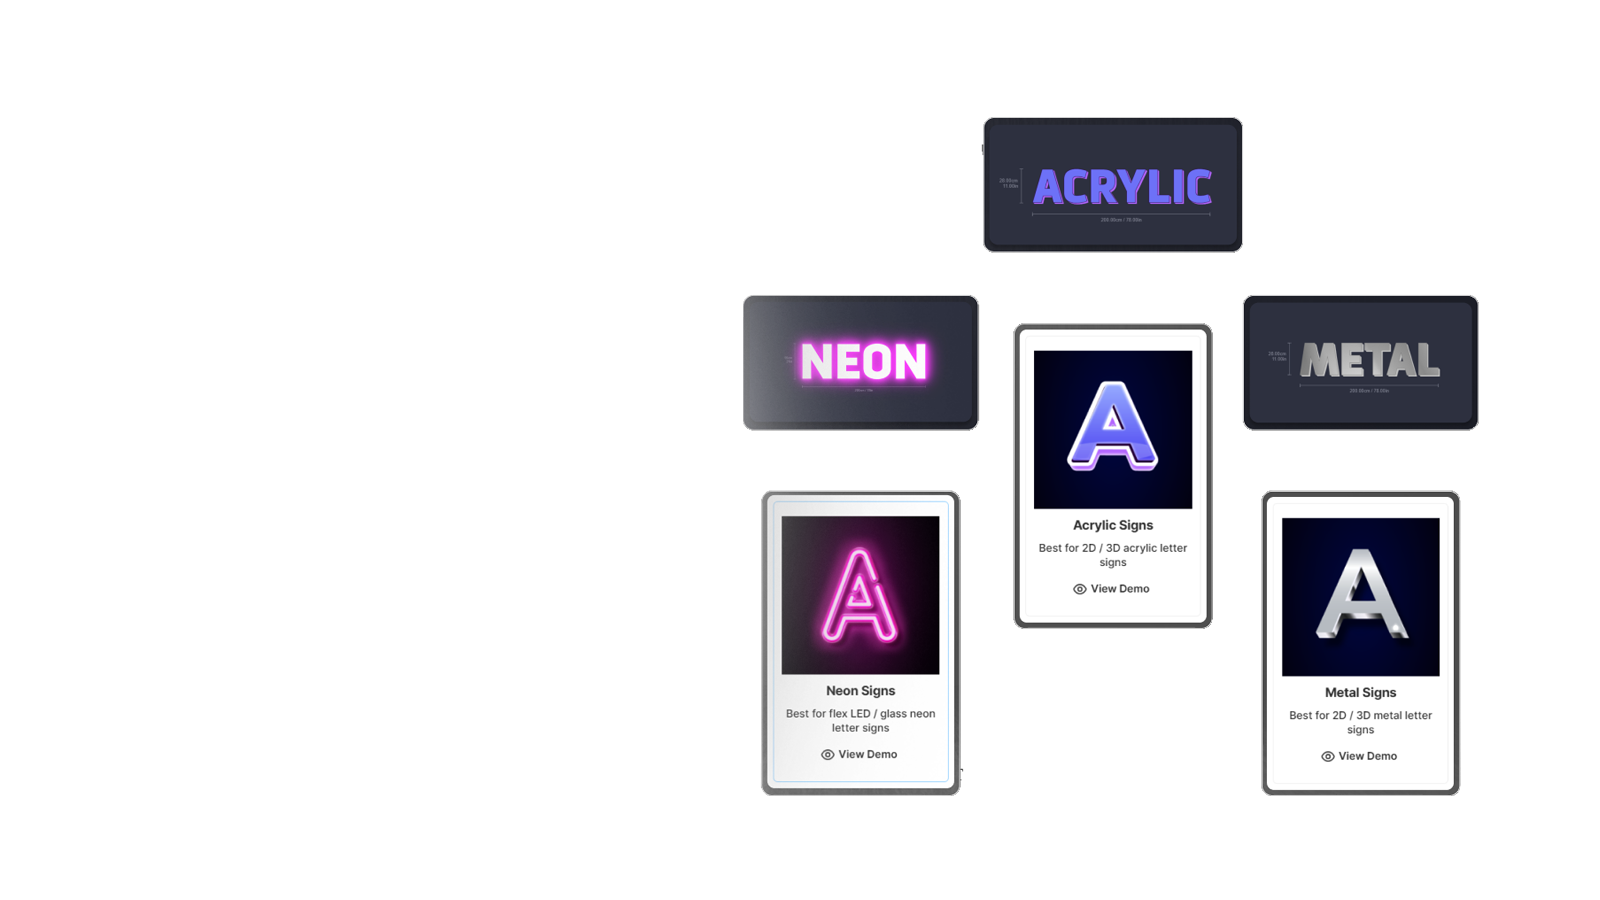
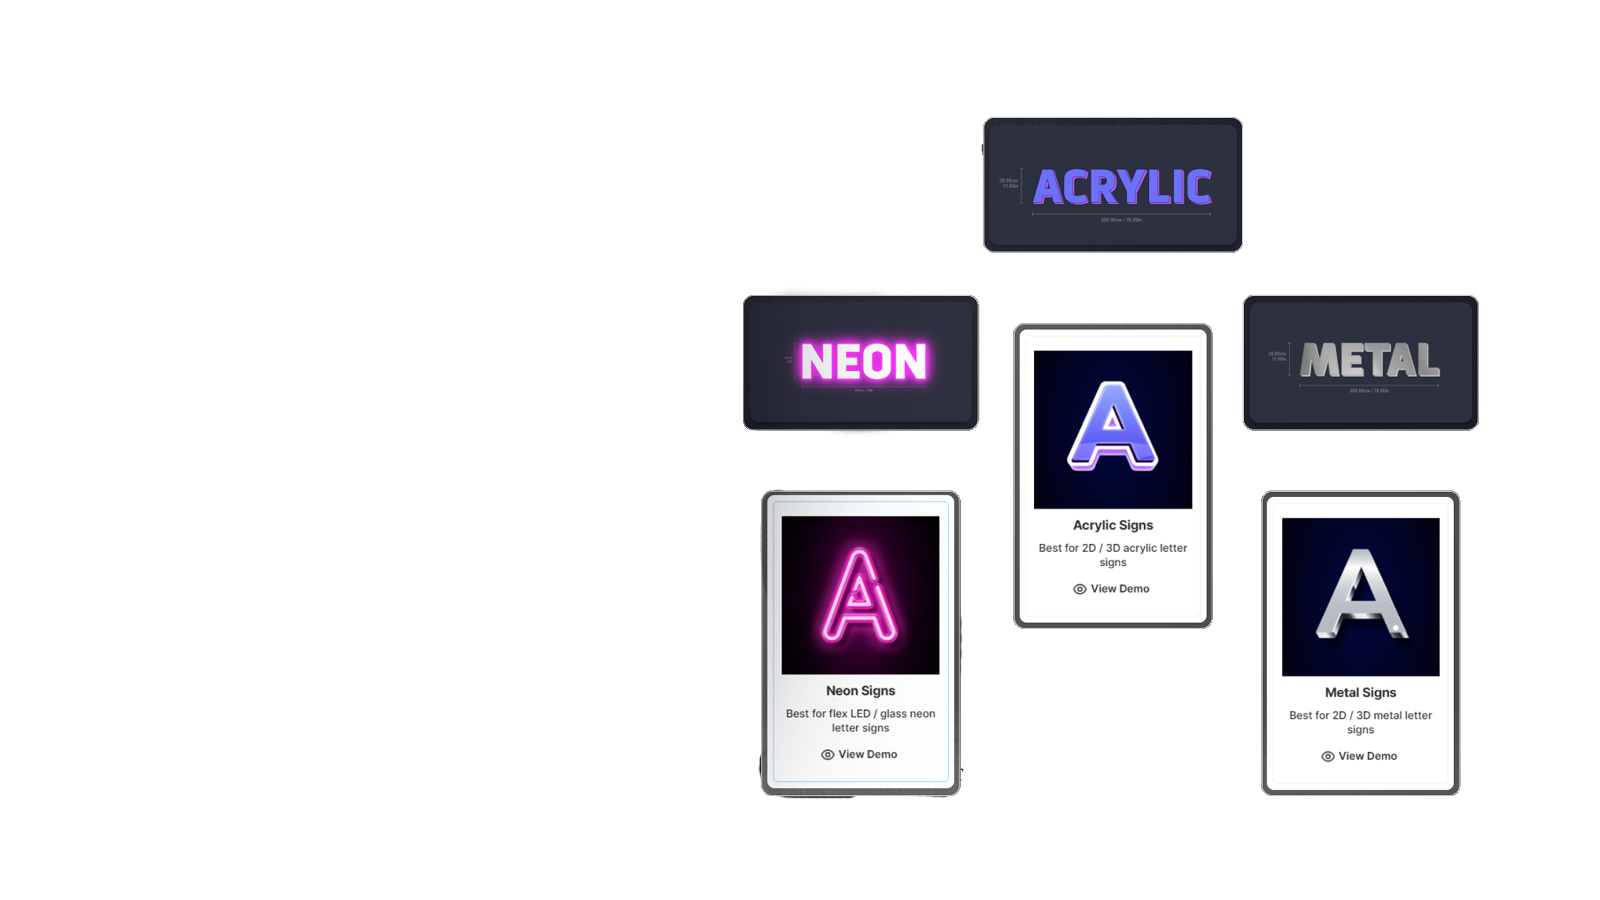
updated

Changed region(s): [[0.4688, 0.5289, 0.5312, 0.8711], [0.4375, 0.3111, 0.5312, 0.4978], [0.5, 0.8711, 0.5312, 0.9022]]

diff --git a/src/components/Features.jsx b/src/components/Features.jsx
@@ -45,8 +45,8 @@ const featuresData = [
         title: 'All-Inclusive Signage Solutions',
         description: 'Use different styles to keep your store sleek and functional on any device.',
         image: [
-            { src: './assets/dynamic/7/bg.png', alt: 'bg', className: "atropos-header-spacer relative w-full h-auto left-0 top-0", dataAtroposOffset: "1" },
-            { src: './assets/dynamic/7/upper.png', alt: 'All-Inclusive Signage Solutions', className: 'absolute left-[0%] top-[0%] w-[100%] h-[100%] object-contain block z-10 max-w-none pointer-events-none transform-3d', style: { transitionDuration: "300ms", transform: "translate3d(0px, 0px, 0px)" }, dataAtroposOffset: "2" },
+            { src: './assets/dynamic/7/bg.png', alt: 'bg', className: "", dataAtroposOffset: "-1" },
+            { src: './assets/dynamic/7/upper.png', alt: 'All-Inclusive Signage Solutions', className: 'absolute left-[0%] top-[0%] w-[100%] h-[100%] object-contain block z-10 max-w-none pointer-events-none transform-3d', style: { transitionDuration: "300ms", transform: "translate3d(0px, 0px, 0px)" }, dataAtroposOffset: "3" },
         ],
     },
 ];
@@ -121,7 +121,7 @@ const Features = () => {
                             </button>
                         ))}
                     </div>
-                    <Atropos className="relative flex-1 md:w-2/3 lg:w-3/4 bg-background/0">
+                    <Atropos className="relative flex-1 md:w-2/3 lg:w-3/4 bg-transparent">
                         <div shadow={false} className='relative'>
                             {selectedFeature?.image instanceof Array ? (
                                 selectedFeature?.image.map((img, index) => (
